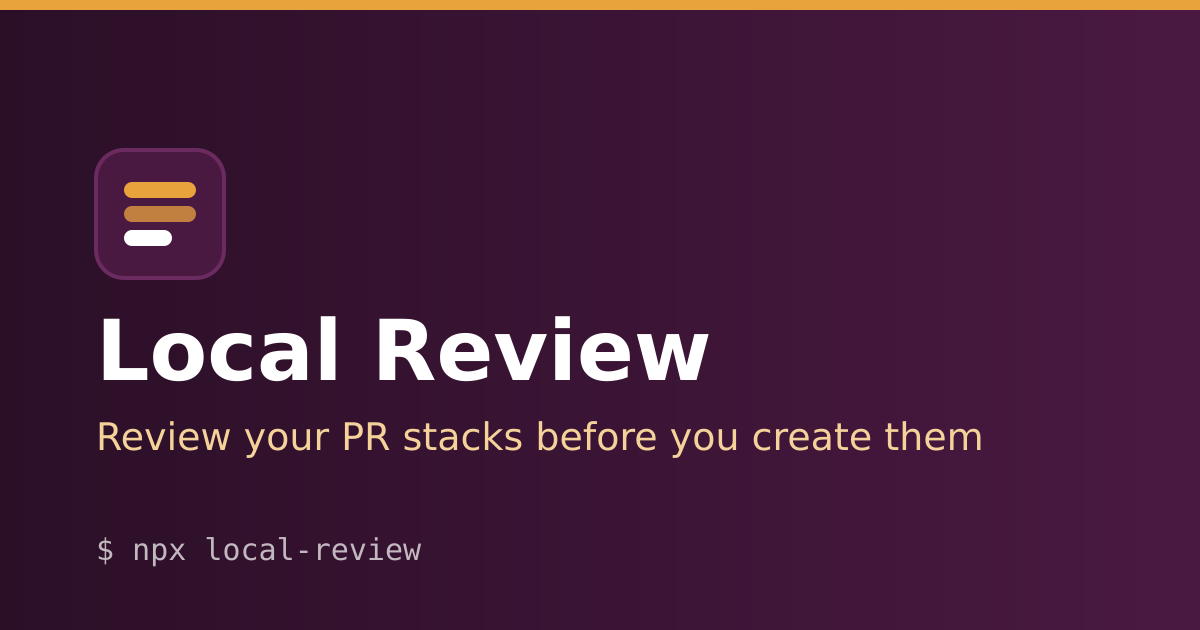
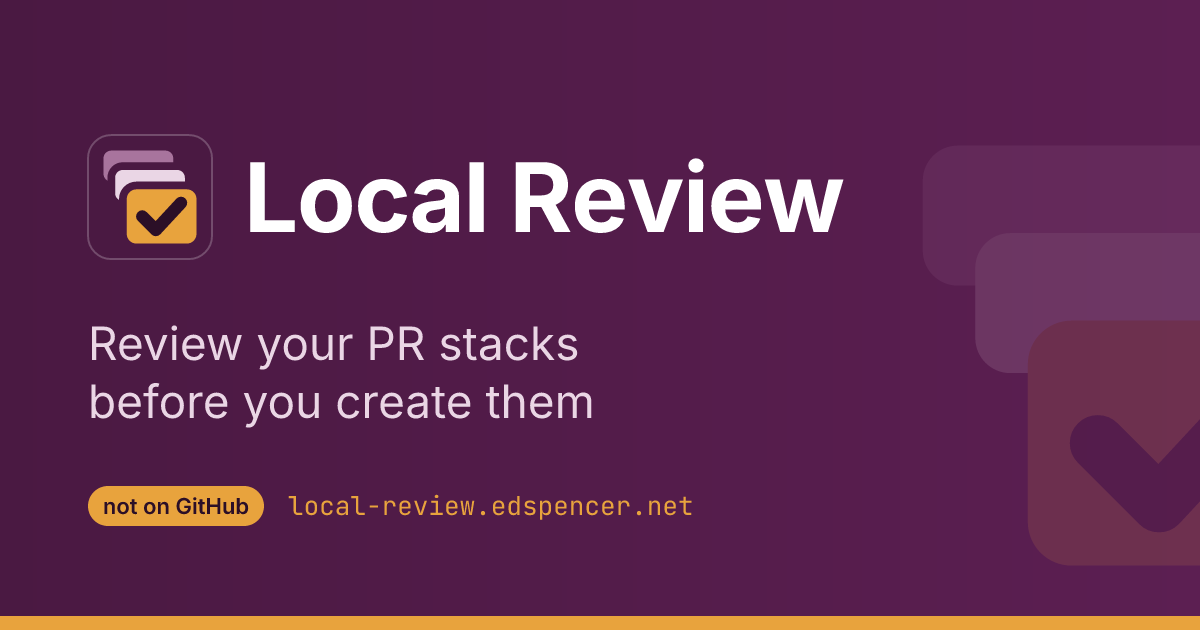
website: use the brand kit, and document the site
Copies the logo lockup, favicons, Apple touch icon and social card from
brand/ with `npm run sync-brand` (Cloudflare builds with website/ as its
root, so ../brand is out of reach). The header is plum in both themes, so it
always uses the white-wordmark lockup, with the faint tile edge brand/README.md
asks for on plum. Adds website/README.md and website/CLAUDE.md.

diff --git a/website/CLAUDE.md b/website/CLAUDE.md
@@ -1,0 +1,95 @@
+# website/CLAUDE.md
+
+Astro + Starlight documentation site for Local Review, deployed to **https://local-review.edspencer.net** by
+**Cloudflare Pages**. Its stack and structure deliberately match Paddock's docs site (`edspencer/paddock`,
+`website/`), with much less content.
+
+This package is **standalone**: it is NOT part of the root `local-review` package, so it never touches the app's
+build, install, tests or npm tarball. Build it on its own from `website/`.
+
+## Build & preview
+
+```bash
+cd website
+npm install
+npm run dev                        # local dev server
+npm run build && npm run preview   # build + preview the built site
+```
+
+`rehype-mermaid` runs with `strategy: 'pre-mermaid'`, which only tags the `<pre>`; all rendering happens client-side
+(`public/mermaid-init.js`, from the CDN), identically in dev and in the built output. Check diagrams in **both**
+colour themes: Mermaid re-renders on every change to `<html data-theme>`.
+
+The build deps (astro, starlight, tailwind) are intentionally in `dependencies`, not `devDependencies`, so a plain
+`npm install` under `NODE_ENV=production` still installs them. That is what Cloudflare's build does, and what the
+projects box exports. No `--include=dev` needed here.
+
+## Content
+
+Docs pages are `.md` / `.mdx` files under `src/content/docs/`. Every page needs Starlight frontmatter (at minimum
+`title:`; quote values that contain a colon). Use Mermaid code fences for diagrams.
+
+Most pages are **stubs** (a summary plus a "TODO: content" note naming the README section the content will come
+from). The README is still the working source; migrating it here is a separate piece of work.
+
+**The default port.** Never type the port number into a page. It is `DEFAULT_PORT` in `src/site.mjs` (it is going to
+change from 5000); MDX pages import it from there (see `getting-started/quickstart.mdx`).
+
+## Sidebar
+
+The sidebar is maintained **by hand** in `astro.config.mjs` under `sidebar`. Starlight does NOT auto-discover pages:
+add new pages there explicitly. Never point a sidebar entry at `/` (the landing page is outside Starlight; see below).
+
+## Landing page
+
+`src/pages/index.astro` is a custom marketing page, outside Starlight (a file route wins `/` over Starlight's injected
+routes). It has its own layout (`src/components/landing/LandingLayout.astro`), its own unconditionally dark styles
+(`src/styles/landing.css`), and its own small script (`src/scripts/landing.ts`). All of its copy lives in
+`src/components/landing/copy.ts`.
+
+Because it is outside Starlight it inherits nothing: head tags, analytics and the nav are re-provided by
+`LandingLayout.astro`. Change a site-wide head tag in `astro.config.mjs` and check whether the layout needs it too.
+
+**Placeholders.** Every screenshot slot on the landing page is a `<Placeholder>` (dashed, labelled "Screenshot
+placeholder", saying what the shot should show). Replace them with real captures from the demo test bed: tight crops
+of one feature each, at close to 1:1, put in `src/assets/landing/` and rendered with `astro:assets` `<Image>`.
+
+## Brand assets
+
+Plum `#4a1942` and amber `#e8a33d`, from the app's header. The logo, favicons, Apple touch icon and social card are
+**copied** from the repo's `brand/` kit by `npm run sync-brand` (`scripts/sync-brand.mjs`), and the copies are
+committed. Cloudflare builds with `website/` as its root, so nothing under `../brand` is reachable at build time.
+Don't hand-edit the copies: change `brand/`, re-run the script, commit.
+
+- `public/favicon.svg`, `public/favicon.ico`, `public/apple-touch-icon.png`: icons (linked by both
+  `astro.config.mjs` and `LandingLayout.astro`)
+- `public/og-image.png`: the 1200×630 social card, for every page
+- `src/assets/lockup-on-plum.svg`: `brand/lockup-dark.svg` plus a faint tile edge. The docs header logo
+  (`replacesTitle`) and the landing nav. One lockup for both themes on purpose: the header is plum in both, and
+  `brand/README.md` picks the lockup by background, not by theme.
+
+Follow `brand/README.md`'s usage rules. In particular, **amber is not a text colour on white** (about 2:1): that is
+why the light theme's accent is plum, and amber appears only on plum or near-black.
+
+## Analytics
+
+PostHog, **off unless `PUBLIC_POSTHOG_KEY` is set at build time** (a Cloudflare Pages variable, or a local `.env`).
+With it unset, no analytics code is emitted anywhere. The snippet is built by `posthogSnippet()` in `src/site.mjs`,
+used both by `astro.config.mjs` (Starlight pages) and by `LandingLayout.astro` (the landing page).
+
+When on, `api_host` is `https://local-review.edspencer.net/ingest`, and `functions/ingest/[[path]].ts`, a Cloudflare
+Pages Function, forwards it to PostHog's US cloud. Change the region in one and you must change it in the other.
+
+`functions/` is the only part of this directory that Cloudflare runs rather than serves. It is invisible to
+`astro build`, so a broken proxy will not fail the build or show up in `npm run preview`. Verify it against a deploy
+preview.
+
+## Deploy (Cloudflare Pages)
+
+Cloudflare Pages builds this directory directly from the GitHub repo (git integration; no GitHub Actions):
+
+- Root directory: `website`
+- Build command: `npm install && npm run build`
+- Build output directory: `dist` (i.e. `website/dist`)
+- Custom domain: `local-review.edspencer.net`
+- Optional variable: `PUBLIC_POSTHOG_KEY`

diff --git a/website/README.md b/website/README.md
@@ -1,0 +1,74 @@
+# Local Review documentation site
+
+The [Astro](https://astro.build) + [Starlight](https://starlight.astro.build) documentation site for Local Review,
+served at **https://local-review.edspencer.net**.
+
+A standalone package: it is not part of the root `local-review` package, so it never affects the app's build, tests
+or npm tarball.
+
+## Develop
+
+```bash
+cd website
+npm install
+npm run dev                       # local dev server
+npm run build && npm run preview  # build + preview the built site
+```
+
+## Structure
+
+- `src/pages/index.astro` and `src/components/landing/`: the marketing landing page at `/` (outside Starlight). Its
+  copy is all in `src/components/landing/copy.ts`.
+- `src/content/docs/`: the documentation pages (`.md` / `.mdx`, Starlight frontmatter).
+- `astro.config.mjs`: site config and the hand-maintained sidebar.
+- `src/site.mjs`: site constants (URL, repo, tagline, **the default port**) and the analytics snippet.
+- `src/assets/`, `public/`, `src/styles/`: logo, favicons, social card, theme.
+- `functions/ingest/[[path]].ts`: the Cloudflare Pages Function that proxies analytics (idle unless analytics is on).
+
+`npm run build` writes the static site to `dist/`, including the Pagefind search index (`dist/pagefind/`) and the
+sitemap (`dist/sitemap-index.xml`).
+
+## Brand assets
+
+The logo, favicons, Apple touch icon and social card are **copied** from the repo's [`brand/`](../brand) kit, not
+referenced from it: Cloudflare builds with `website/` as its root directory and can't see `../brand`. To refresh
+them after `brand/` changes, run this and commit the result:
+
+```bash
+npm run sync-brand
+```
+
+| From `brand/` | To | Used as |
+| --- | --- | --- |
+| `favicon.svg`, `favicon.ico` | `public/` | favicons |
+| `apple-touch-icon.png` | `public/` | `<link rel="apple-touch-icon">` |
+| `og-image.png` | `public/` | `og:image` / `twitter:image` |
+| `lockup-dark.svg`, plus a faint tile edge | `src/assets/lockup-on-plum.svg` | the docs header logo and the landing nav |
+
+The docs header is plum in both themes, so it always uses the white-wordmark lockup (`brand/README.md`: pick the
+lockup by background, and give the tile a faint edge on plum).
+
+## Deploy
+
+Built and served by **Cloudflare Pages** from the GitHub repo (git integration, no Actions):
+
+| Setting | Value |
+| --- | --- |
+| Framework preset | Astro (or None) |
+| Production branch | `main` |
+| Root directory | `website` |
+| Build command | `npm install && npm run build` |
+| Build output directory | `dist` |
+| Custom domain | `local-review.edspencer.net` |
+
+Every PR that touches the repo also gets a preview deployment.
+
+## Analytics (off by default)
+
+PostHog analytics loads **only if `PUBLIC_POSTHOG_KEY` is set when the site is built**. To turn it on, add it in
+Cloudflare Pages → the project → Settings → Variables and Secrets (as a plain-text variable, for Production and,
+if wanted, Preview), then redeploy. The key is a public `phc_…` project key; it ends up in every page's HTML either
+way. To try it locally, put `PUBLIC_POSTHOG_KEY=phc_…` in `website/.env` (git-ignored).
+
+Requests go to `/ingest` on the site's own domain and are forwarded to PostHog's US cloud by
+`functions/ingest/[[path]].ts`. See `website/CLAUDE.md`.
